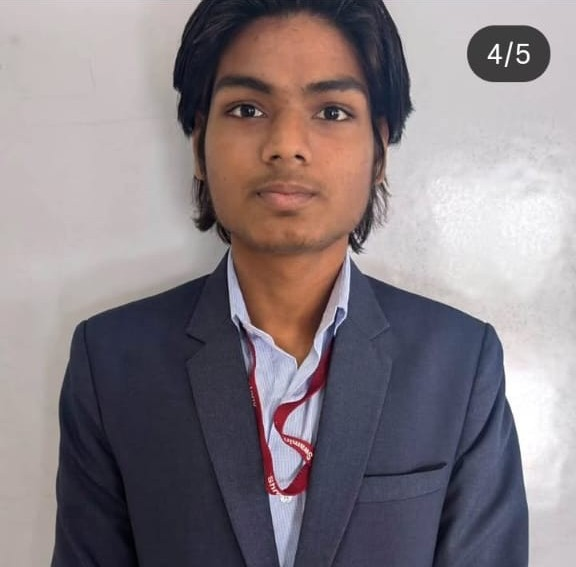
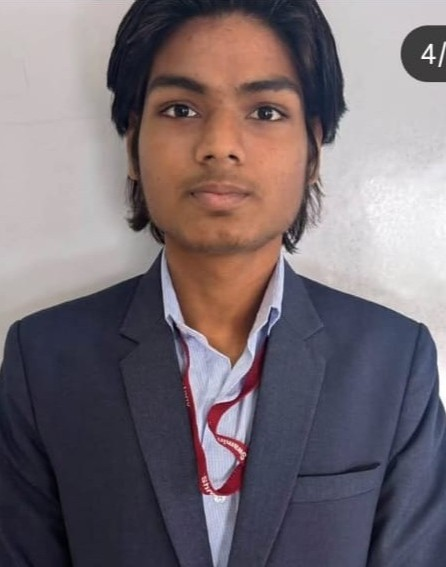
college_webb

diff --git a/index.html b/index.html
@@ -117,17 +117,6 @@ Discipline &amp; daily structure · Industry-aligned IT curriculum · Residentia
                     <p>Undergraduate and diploma programs, each built around small batches and a faculty mentor who tracks your progress year on year.</p>
                 </div>
  
-                <div class="course-grid">
-                    <div class="course-card">
-                        <div class="course-card-tab">bba.program</div>
-                        <div class="course-card-body">
-                            <h3>Bachelor of Business Administration</h3>
-                            <p class="course-meta">3 Years · Full-time</p>
-                            <p>A management degree covering marketing, finance, HR and strategy, built around case studies and a final-year project.</p>
-                            <button class="btn btn-outline-gold" data-course="bba">View Curriculum</button>
-                            <a class="btn btn-outline-gold1" href="https://gtu.ac.in/syllabus/syllabus.aspx">Download</a>
-                        </div>
-                    </div>
  
                     <div class="course-card">
                         <div class="course-card-tab">bca.program</div>
@@ -135,20 +124,11 @@ Discipline &amp; daily structure · Industry-aligned IT curriculum · Residentia
                             <h3>Bachelor of Computer Applications</h3>
                             <p class="course-meta">3 Years · Full-time</p>
                             <p>Application-focused computing: software development, mobile apps and cloud fundamentals, with an emphasis on shipped projects.</p>
-                            <button class="btn btn-outline-gold" data-course="bca">View Curriculum</button>
+                             <a class="btn btn-outline-gold1" href="https://gturanker.org/papers/BC/">View Curriculum</a>
                              <a class="btn btn-outline-gold1" href="https://gtu.ac.in/syllabus/syllabus.aspx">Download</a>
                         </div>
                     </div>
- 
-                    <div class="course-card">
-                        <div class="course-card-tab">bcom.program</div>
-                        <div class="course-card-body">
-                            <h3>Bachelor of Commerce</h3>
-                            <p class="course-meta">3 Years · Full-time</p>
-                            <p>A commerce degree covering accounting, taxation, business law and financial management, geared toward finance and audit careers.</p>
-                            <button class="btn btn-outline-gold" data-course="bcom">View Curriculum</button>
-                             <a class="btn btn-outline-gold1" href="https://gtu.ac.in/syllabus/syllabus.aspx">Download</a>
-                        </div>
+
                     </div>
                 </div>
             </div>
@@ -208,7 +188,7 @@ Discipline &amp; daily structure · Industry-aligned IT curriculum · Residentia
                     </div>
                     <div class="faculty-card">
                         <img src="teachers.jpeg" alt="Faculty member" class="faculty-photo">
-                        <h4>DHARTI MA'AM</h4>
+                        <h4>DHARI MA'AM</h4>
                         <p class="faculty-role">Lecturer</p>
                         <p class="faculty-subject">Database Systems</p>
                     </div>
@@ -218,12 +198,7 @@ Discipline &amp; daily structure · Industry-aligned IT curriculum · Residentia
                         <p class="faculty-role">Lecturer</p>
                         <p class="faculty-subject">Database Systems</p>
                     </div>
-                    <div class="faculty-card">
-                        <img src="teachers.jpeg" alt="Faculty member" class="faculty-photo">
-                        <h4>NIRVI THAKRAR</h4>
-                        <p class="faculty-role">Lecturer</p>
-                        <p class="faculty-subject">Database Systems</p>
-                    </div>
+                    
                 </div>
             </div>
         </section>
@@ -248,55 +223,55 @@ Discipline &amp; daily structure · Industry-aligned IT curriculum · Residentia
                         <img src="jiya.jpeg" alt="Faculty member" class="faculty-photo">
                         <h4>JIYA ANILKUMAR BASERA</h4>
                         <p class="faculty-role">GTU TOPPERS</p>
-                        <p class="faculty-subject">Data Structures &amp; Algorithms</p>
+                        
                     </div>
                     <div class="faculty-card">
                         <img src="pratik.jpeg" alt="Faculty member" class="faculty-photo">
                         <h4>PRATIK RAJENDRA PRASAD YADAV</h4>
                         <p class="faculty-role">GTU TOPPERS</p>
-                        <p class="faculty-subject">Web Technologies</p>
+                        
                     </div>
                     <div class="faculty-card">
                         <img src="" alt="Faculty member" class="faculty-photo">
                         <h4>KAVAN VELJI BADARSHAHI</h4>
                         <p class="faculty-role">GTU TOPPERS</p>
-                        <p class="faculty-subject">Database Systems</p>
+                        
                     </div>
                     <div class="faculty-card">
                         <img src="shruti.jpeg" alt="Faculty member" class="faculty-photo">
                         <h4>SHRUTI BAMANIYA</h4>
                         <p class="faculty-role">GTU TOPPERS</p>
-                        <p class="faculty-subject">Database Systems</p>
+                        
                     </div>
                     <div class="faculty-card">
                         <img src="tulsi.jpeg" alt="Faculty member" class="faculty-photo">
                         <h4>TULSI BHIKHUBHAI KOTIA</h4>
                         <p class="faculty-role">GTU TOPPERS</p>
-                        <p class="faculty-subject">Database Systems</p>
+                        
                     </div>
                     <div class="faculty-card">
                         <img src="krishna.jpeg" alt="Faculty member" class="faculty-photo">
                         <h4>KRISHNA BHARTHI MAIYARA</h4>
                         <p class="faculty-role">GTU TOPPERS</p>
-                        <p class="faculty-subject">Database Systems</p>
+                        
                     </div>
                     <div class="faculty-card">
                         <img src="priyanka.jpeg" alt="Faculty member" class="faculty-photo">
                         <h4>PRIYANKAA ADATIYA</h4>
                         <p class="faculty-role">GTU TOPPERS</p>
-                        <p class="faculty-subject">Database Systems</p>
+                        
                     </div>
                     <div class="faculty-card">
                         <img src="" alt="Faculty member" class="faculty-photo">
                         <h4>AASTHA RATHOD</h4>
                         <p class="faculty-role">GTU TOPPERS</p>
-                        <p class="faculty-subject">Database Systems</p>
+                        
                     </div>
                     <div class="faculty-card">
-                        <img src="" alt="Faculty member" class="faculty-photo">
+                        <img src="nupur.jpeg" alt="Faculty member" class="faculty-photo">
                         <h4>NUPUR </h4>
                         <p class="faculty-role">GTU TOPPERS</p>
-                        <p class="faculty-subject">Database Systems</p>
+                        
                     </div>
                 </div>
             </div>
@@ -485,7 +460,10 @@ Discipline &amp; daily structure · Industry-aligned IT curriculum · Residentia
             <p>Built with care, for the next batch.</p>
         </div>
     </footer>
-
+    <script src="https://cdn.jsdelivr.net/npm/@emailjs/browser@4/dist/email.min.js"></script>
+    <script>
+      emailjs.init("Gg0OgyWDJRSkwIrSe");
+    </script>
     <script src="script.js" defer></script>
 </body>
 </html>

diff --git a/script.js b/script.js
@@ -3,7 +3,7 @@ document.addEventListener("DOMContentLoaded", () => {
     initGalleryLoop();
     initMobileNav();
     initScrollSpy();
-    initCurriculumModal();
+    // initCurriculumModal();
     initContactForm();
 });
 
@@ -74,109 +74,6 @@ function initScrollSpy() {
 
 /* ---------------- Curriculum data ---------------- */
 
-const CURRICULUM = {
-    about: {
-        title: "About the Institute",
-        years: {
-            "Overview": [
-                "Residential & day-scholar undergraduate programs",
-                "Small batch sizes with individual faculty mentoring",
-                "Technical curriculum alongside cultural & leadership programming",
-                "Daily structure: morning assembly, academic sessions, evening activities",
-            ],
-        },
-    },
-    bba: {
-        title: "Bachelor of Business Administration",
-        years: {
-            "Year 1": ["Principles of Management", "Business Communication", "Financial Accounting", "Business Economics"],
-            "Year 2": ["Marketing Management", "Human Resource Management", "Business Statistics", "Organizational Behaviour"],
-            "Year 3": ["Entrepreneurship Development", "Strategic Management", "Business Analytics Basics", "Major Project"],
-        },
-    },
-    bca: {
-        title: "Bachelor of Computer Applications",
-        years: {
-            "Year 1": ["Programming in C", "Computer Fundamentals", "Business Mathematics", "Digital Electronics"],
-            "Year 2": ["Data Structures", "DBMS & SQL", "Python Programming", "Computer Networks"],
-            "Year 3": ["Software Engineering", "Mobile App Development", "Cloud Computing Basics", "Major Project"],
-        },
-    },
-    bcom: {
-        title: "Bachelor of Commerce",
-        years: {
-            "Year 1": ["Financial Accounting", "Business Law", "Micro Economics", "Business Communication"],
-            "Year 2": ["Corporate Accounting", "Income Tax Law & Practice", "Cost Accounting", "Business Statistics"],
-            "Year 3": ["Auditing", "Corporate Law", "Financial Management", "GST & Indirect Taxes"],
-        },
-    },
-};
- 
-function initCurriculumModal() {
-    const overlay = document.getElementById("curriculumModal");
-    const closeBtn = document.getElementById("modalCloseBtn");
-    const titleEl = document.getElementById("modalTitle");
-    const tabsEl = document.getElementById("yearTabs");
-    const contentEl = document.getElementById("yearContent");
-    if (!overlay || !titleEl || !tabsEl || !contentEl) return;
- 
-    document.querySelectorAll("[data-course]").forEach((btn) => {
-        btn.addEventListener("click", () => {
-            const key = btn.getAttribute("data-course");
-            const data = CURRICULUM[key];
-            if (!data) return;
-            openModal(data);
-        });
-    });
- 
-    function openModal(data) {
-        titleEl.textContent = data.title;
-        tabsEl.innerHTML = "";
-        contentEl.innerHTML = "";
- 
-        const yearKeys = Object.keys(data.years);
-        yearKeys.forEach((yearKey, i) => {
-            const tabBtn = document.createElement("button");
-            tabBtn.className = "year-tab-btn" + (i === 0 ? " active" : "");
-            tabBtn.type = "button";
-            tabBtn.textContent = yearKey;
-            tabBtn.addEventListener("click", () => {
-                tabsEl.querySelectorAll(".year-tab-btn").forEach((b) => b.classList.remove("active"));
-                tabBtn.classList.add("active");
-                renderYear(data.years[yearKey]);
-            });
-            tabsEl.appendChild(tabBtn);
-        });
- 
-        renderYear(data.years[yearKeys[0]]);
-        overlay.classList.add("active");
-        document.body.style.overflow = "hidden";
-    }
- 
-    function renderYear(topics) {
-        const ul = document.createElement("ul");
-        topics.forEach((t) => {
-            const li = document.createElement("li");
-            li.textContent = t;
-            ul.appendChild(li);
-        });
-        contentEl.innerHTML = "";
-        contentEl.appendChild(ul);
-    }
- 
-    function closeModal() {
-        overlay.classList.remove("active");
-        document.body.style.overflow = "";
-    }
- 
-    closeBtn?.addEventListener("click", closeModal);
-    overlay.addEventListener("click", (e) => {
-        if (e.target === overlay) closeModal();
-    });
-    document.addEventListener("keydown", (e) => {
-        if (e.key === "Escape") closeModal();
-    });
-}
 
 /* ---------------- Contact form (front-end only) ---------------- */
 
@@ -197,9 +94,17 @@ function initContactForm() {
             return;
         }
 
-        
         status.style.color = "";
-        status.textContent = "Thanks — we'll get back to you shortly.";
-        form.reset();
+        status.textContent = "Sending...";
+
+        emailjs.sendForm("Service_1sdbsre", "template_osurf5h", form)
+            .then(() => {
+                status.style.color = "#2fbf71";
+                status.textContent = "✅ Thank you! Check your email — we'll reach out to you soon.";
+                form.reset();
+            }, (error) => {
+                status.style.color = "#e5484d";
+                status.textContent = "❌ Something went wrong. Please try again or call us directly.";
+            });
     });
 }
